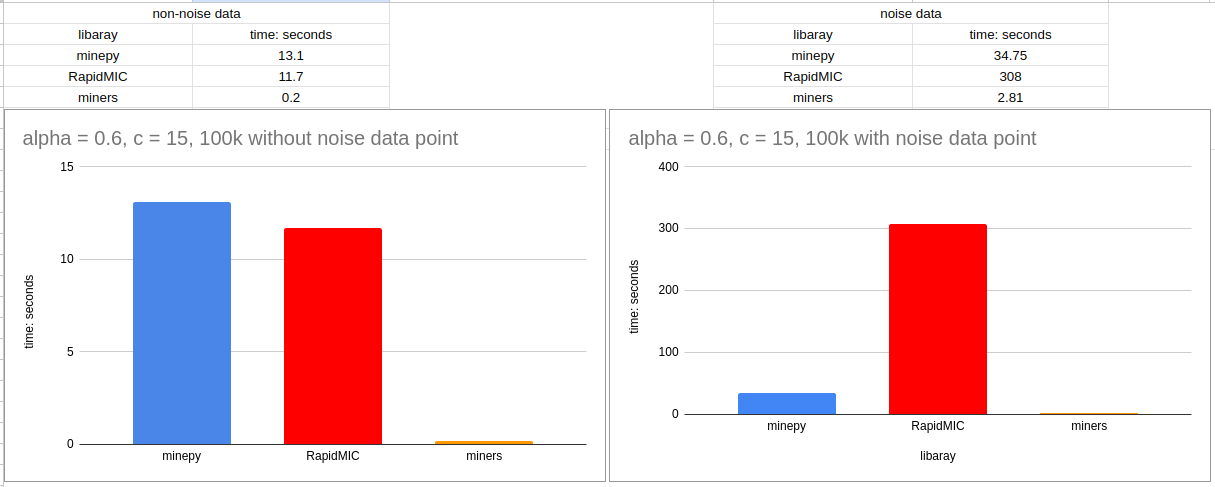
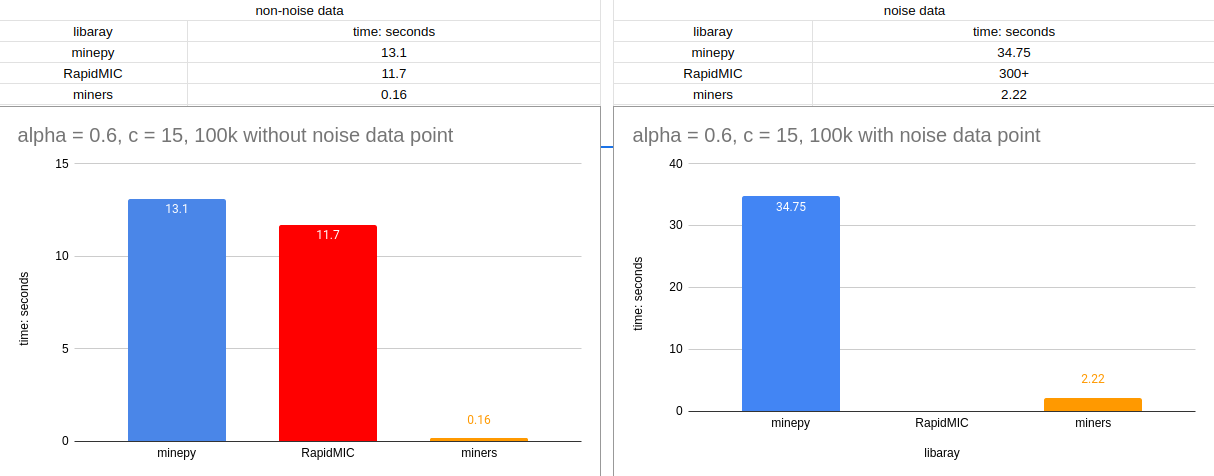
perf: add release profile params and update bench img.

diff --git a/examples/example.rs b/examples/example.rs
@@ -14,7 +14,7 @@ fn print_stats(score: &MineScore) {
 }
 
 fn main() {
-    let x = (0..200000).map(|i| i as f64).collect::<Vec<f64>>();
+    let x = (0..100000).map(|i| i as f64).collect::<Vec<f64>>();
     let mut y = x
         .iter()
         .map(|&x| (10.0 * PI * x).sin() + x)

diff --git a/README.md b/README.md
@@ -1,6 +1,6 @@
 # miners
 
-miners is a fast Rust library for the Maximal Information-based Nonparametric Exploration (MIC and MINE family). miners using rayon and vectorization to speed up the calculation of MIC, it is 10x faster than the original minepy implementation.
+miners is a fast Rust library for the Maximal Information-based Nonparametric Exploration (MIC and MINE family). miners using rayon and vectorization to speed up the calculation of MIC, it is 15x faster than the original minepy implementation.
 
 ![bench](./bench.png)
 Yep, RapidMIC has a problem dealing with noisy high amounts of data
@@ -11,7 +11,7 @@ Yep, RapidMIC has a problem dealing with noisy high amounts of data
 - Total Information Coefficient (TIC, DOI: arXiv:1505.02213) and the Generalized Mean Information Coefficient (GMIC, DOI: arXiv:1308.5712);
 - A Rust library
 - an efficient Python API
-- 10x faster than minepy
+- 15x faster than minepy
 
 ## Installation
 
